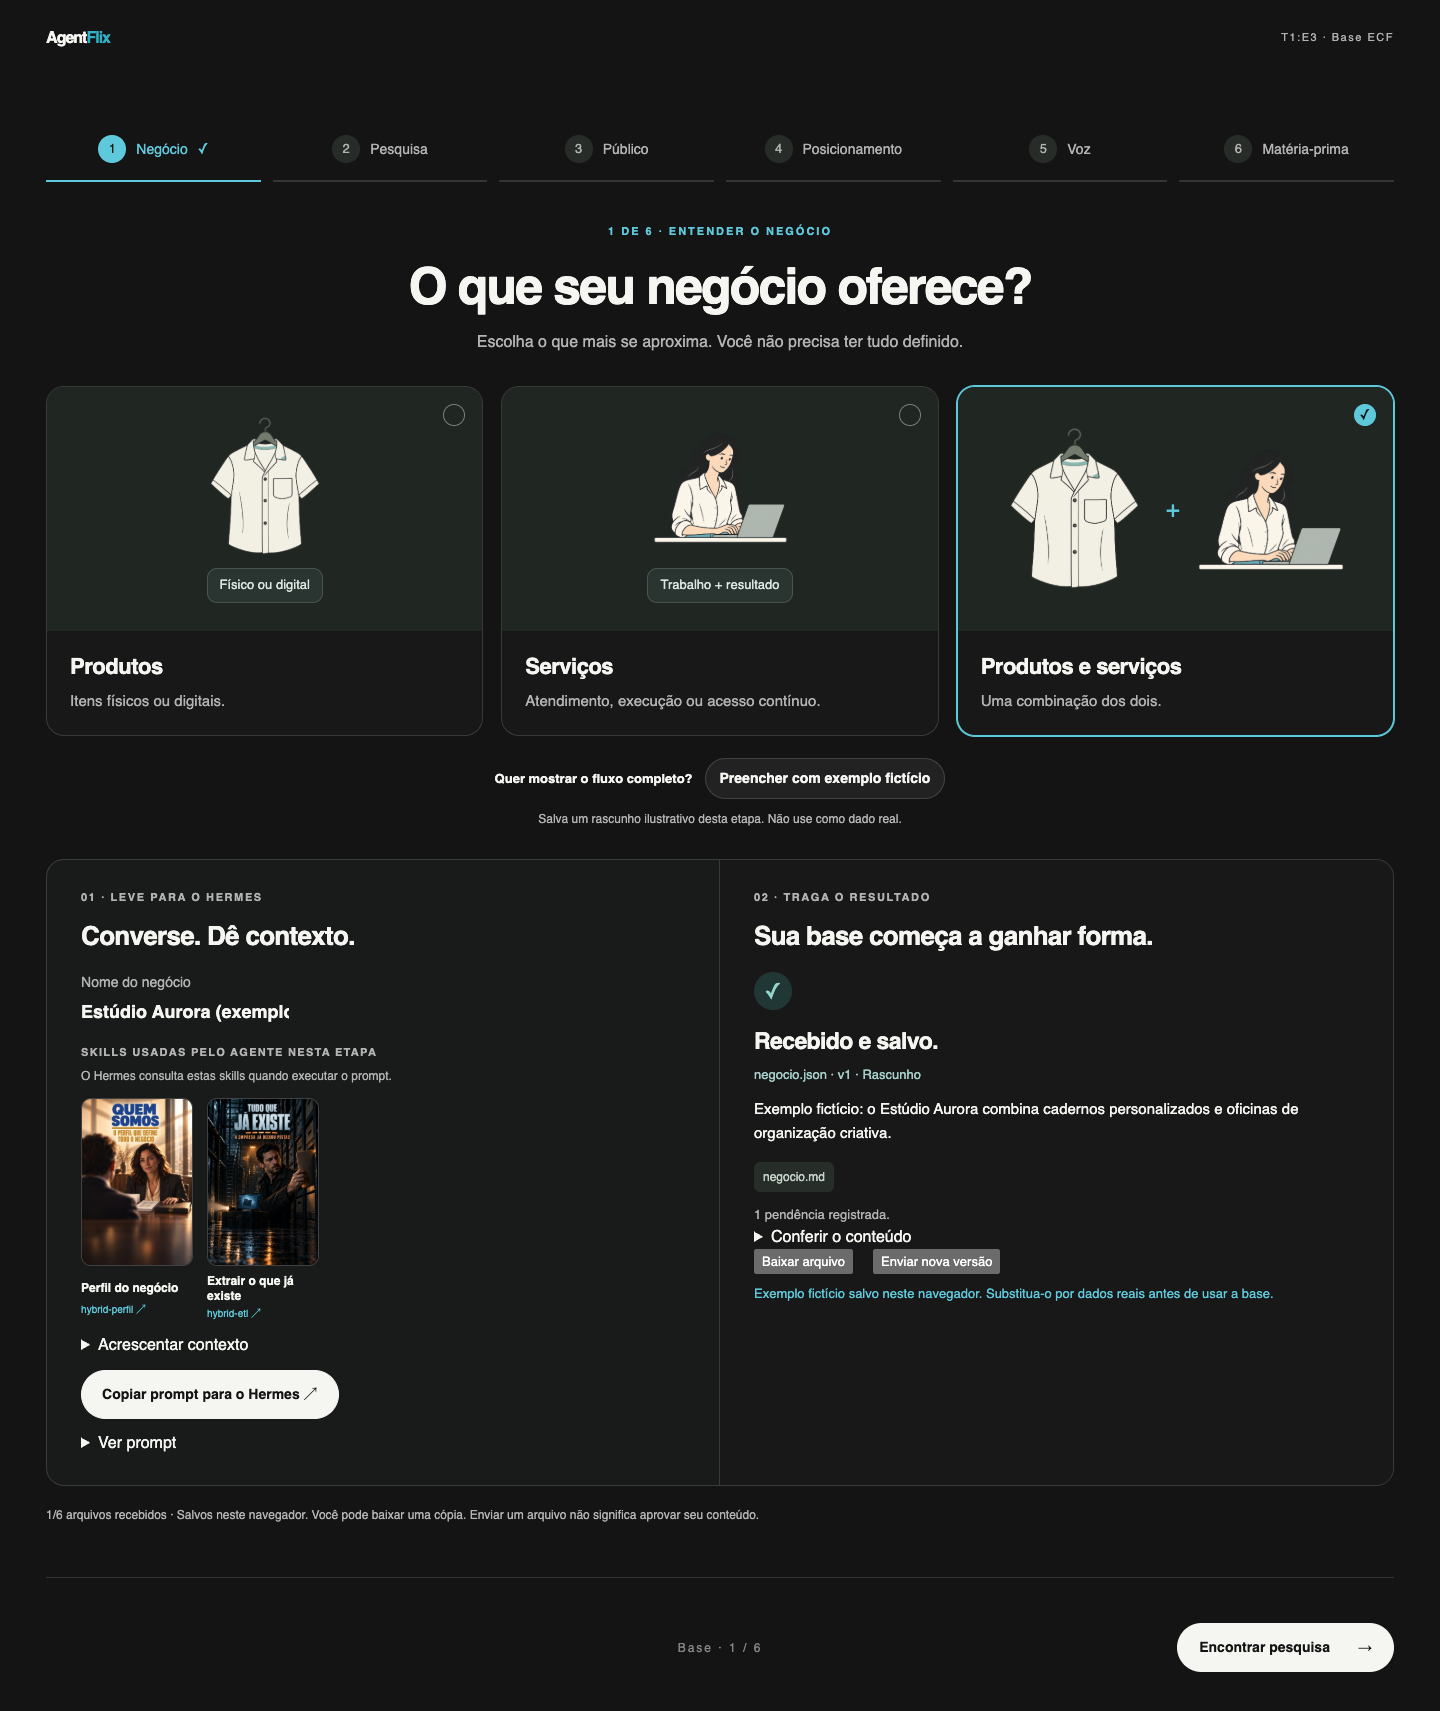
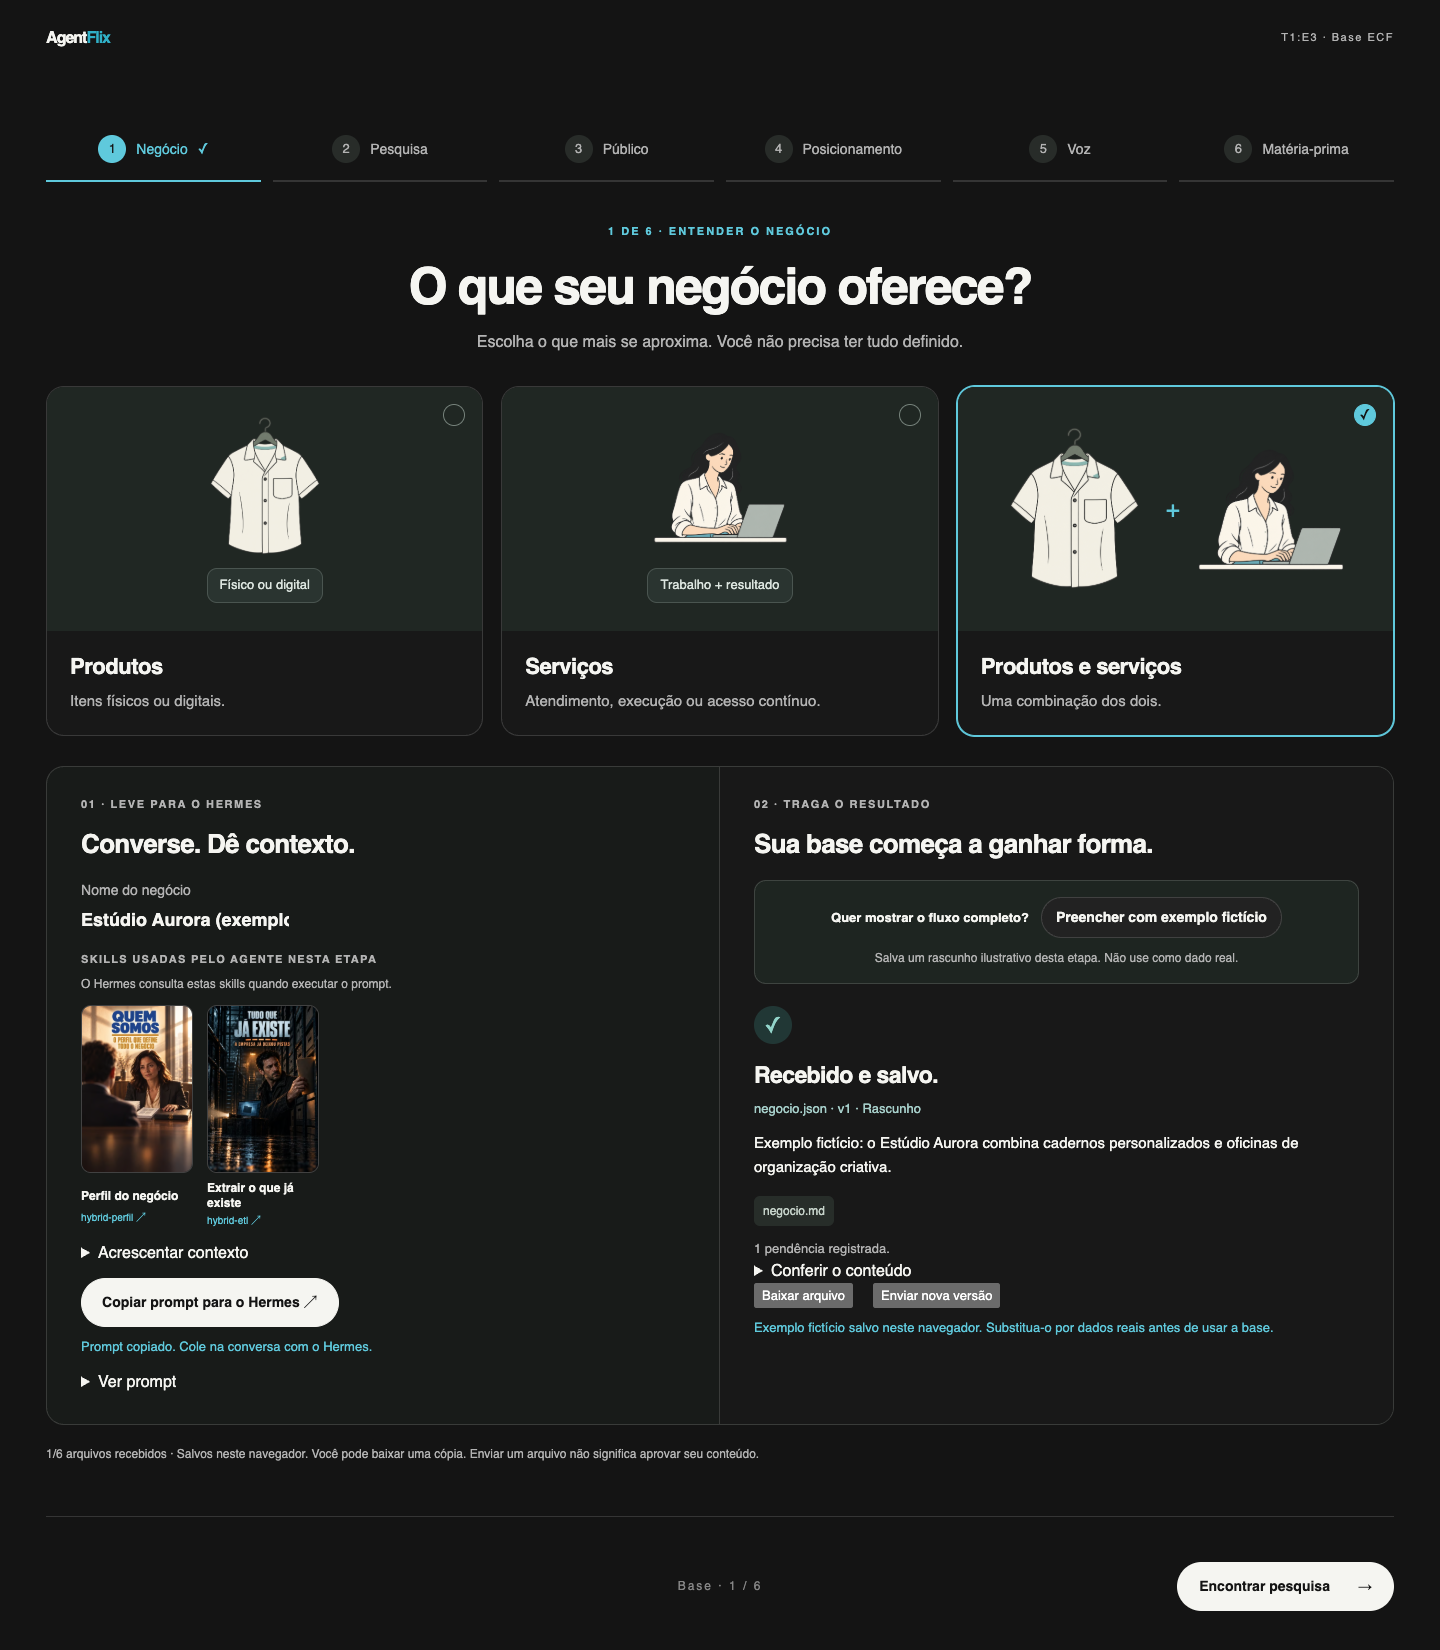
Torna o exemplo fictício acessível no onboarding

diff --git a/site/assistir/hermes-em-operacao/t1e3/base-editorial-flow.js b/site/assistir/hermes-em-operacao/t1e3/base-editorial-flow.js
@@ -67,14 +67,14 @@
     section.setAttribute('aria-labelledby','base-title-'+index);
     section.innerHTML = '<nav class="base-nav" style="--base-stages:'+stages.length+'" aria-label="Etapas da base">'+stages.map((item,i)=>'<a href="#etapa-'+(i+1)+'" data-base-nav="'+item.id+'" '+(index===i?'aria-current="step"':'')+'><span class="base-nav-number">'+(i+1)+'</span><span>'+item.short+'</span><span class="base-nav-check" aria-label="Arquivo recebido" hidden>✓</span></a>').join('')+'</nav>'
       +'<div class="base-decision"><div class="base-heading"><div><p class="eyebrow">'+stage.n+' DE '+stages.length+' · '+stage.title+'</p><h1 id="base-title-'+index+'" tabindex="-1">'+stage.question+'</h1><p>'+stage.guidance+'</p></div></div>'
-      +'<div class="base-choices" role="group" aria-label="'+esc(stage.question)+'">'+stage.options.map((option,i)=>'<button type="button" class="base-choice" data-choice="'+i+'" aria-pressed="false"><span class="base-selection" aria-hidden="true"></span><span class="base-option-art" aria-hidden="true">'+visual(index,i)+'</span><span class="base-option-copy"><strong>'+esc(option.title)+'</strong><span>'+esc(option.description)+'</span></span></button>').join('')+'</div><div class="base-fictional-action"><p>Quer mostrar o fluxo completo?</p><button type="button" class="secondary base-fictional">Preencher com exemplo fictício</button><small>Salva um rascunho ilustrativo desta etapa. Não use como dado real.</small></div></div>'
+      +'<div class="base-choices" role="group" aria-label="'+esc(stage.question)+'">'+stage.options.map((option,i)=>'<button type="button" class="base-choice" data-choice="'+i+'" aria-pressed="false"><span class="base-selection" aria-hidden="true"></span><span class="base-option-art" aria-hidden="true">'+visual(index,i)+'</span><span class="base-option-copy"><strong>'+esc(option.title)+'</strong><span>'+esc(option.description)+'</span></span></button>').join('')+'</div></div>'
       +'<div class="base-workspace"><section class="base-prompt-side" aria-labelledby="base-prompt-title-'+index+'"><p class="base-step-label">01 · LEVE PARA O HERMES</p><h2 id="base-prompt-title-'+index+'">Converse. Dê contexto.</h2>'
       +(index===0?'<label for="base-name">Nome do negócio</label><input id="base-name" maxlength="120" placeholder="Como seu negócio se chama?" autocomplete="organization">':'<p class="base-business-name"></p>')
       +skillCards(stage.skills)
       +'<details class="base-context"><summary>Acrescentar contexto</summary><label class="sr-only" for="base-extra-'+index+'">Contexto adicional para '+stage.short+'</label><textarea id="base-extra-'+index+'" rows="3" maxlength="4000" placeholder="Um detalhe que o Hermes precisa saber…"></textarea></details>'
       +'<button type="button" class="primary base-copy">Copiar prompt para o Hermes <span aria-hidden="true">↗</span></button>'
       +'<p class="base-copy-feedback" role="status"></p><details class="base-prompt-preview"><summary>Ver prompt</summary><textarea aria-label="Prompt de '+stage.short+'" readonly rows="10"></textarea><button type="button" class="text-button base-prompt-download">Baixar prompt .md</button></details></section>'
-      +'<section class="base-upload-side" aria-labelledby="base-upload-title-'+index+'"><p class="base-step-label">02 · TRAGA O RESULTADO</p><h2 id="base-upload-title-'+index+'">Sua base começa a ganhar forma.</h2><div class="base-upload-empty"><div class="base-file-graphic" aria-hidden="true">'+art('pasta')+'</div><label class="base-file-button" for="base-file-'+index+'">Abrir '+stage.id+'.json <span aria-hidden="true">↑</span></label><input class="base-file-input" id="base-file-'+index+'" type="file" accept=".json,application/json"><p>O arquivo que o Hermes entregou.</p></div>'
+      +'<section class="base-upload-side" aria-labelledby="base-upload-title-'+index+'"><p class="base-step-label">02 · TRAGA O RESULTADO</p><h2 id="base-upload-title-'+index+'">Sua base começa a ganhar forma.</h2><div class="base-fictional-action base-fictional-upload"><p>Quer mostrar o fluxo completo?</p><button type="button" class="secondary base-fictional">Preencher com exemplo fictício</button><small>Salva um rascunho ilustrativo desta etapa. Não use como dado real.</small></div><div class="base-upload-empty"><div class="base-file-graphic" aria-hidden="true">'+art('pasta')+'</div><label class="base-file-button" for="base-file-'+index+'">Abrir '+stage.id+'.json <span aria-hidden="true">↑</span></label><input class="base-file-input" id="base-file-'+index+'" type="file" accept=".json,application/json"><p>O arquivo que o Hermes entregou.</p></div>'
       +'<div class="base-receipt" hidden></div><p class="base-file-feedback" role="status"></p><div class="base-repair" hidden><p class="base-step-label">ARQUIVO PRECISA DE CORREÇÃO</p><h3>Peça ao Hermes para ajustar.</h3><p>A correção preserva o conteúdo e aplica o contrato desta etapa.</p><button type="button" class="secondary base-repair-copy">Copiar pedido de correção <span aria-hidden="true">↗</span></button><p class="base-repair-feedback" role="status"></p><details><summary>Conferir o pedido</summary><textarea readonly rows="10" aria-label="Pedido de correção"></textarea><button type="button" class="text-button base-repair-download">Baixar pedido .md</button></details></div></section></div>'
       +'<p class="base-storage-note" role="status">Abrindo sua base…</p>';
     section.querySelectorAll('[data-choice]').forEach(button=>button.addEventListener('click',()=>selectOption(index,Number(button.dataset.choice))));

diff --git a/site/assistir/hermes-em-operacao/t1e3/base-editorial-page.js b/site/assistir/hermes-em-operacao/t1e3/base-editorial-page.js
@@ -111,8 +111,8 @@
       guideOutcome.textContent='Quando ele entregar '+stage.id+'.json, salve o arquivo e volte para esta tela.';guideButton.textContent='Estou com o arquivo';
     }else if(mode==='upload'){
       guide.classList.add('base-tour-detail','base-tour-detail-upload');guideKicker.textContent='02 · TRAGA O RESULTADO';guideTitle.textContent='Traga o arquivo de volta para a sua base.';
-      guideDescription.textContent='Clique no botão destacado “Abrir '+stage.id+'.json” e selecione o arquivo que o Hermes entregou.';
-      guideOutcome.textContent='A tela confere o formato e guarda o resultado neste navegador. Resultado esperado: '+stage.result.charAt(0).toLowerCase()+stage.result.slice(1);guideTarget=scenes[index].querySelector('.base-upload-side');guideActionTarget=scenes[index].querySelector('.base-upload-empty:not([hidden]) .base-file-button, .base-receipt:not([hidden]) .base-replace');guideButton.hidden=true;
+      guideDescription.textContent='Para demonstrar o fluxo, clique no botão destacado “Preencher com exemplo fictício”. Para usar o resultado real, clique em “Abrir '+stage.id+'.json”.';
+      guideOutcome.textContent='A tela confere o formato e guarda o resultado neste navegador. Resultado esperado: '+stage.result.charAt(0).toLowerCase()+stage.result.slice(1);guideTarget=scenes[index].querySelector('.base-upload-side');guideActionTarget=scenes[index].querySelector('.base-fictional:not([disabled]), .base-upload-empty:not([hidden]) .base-file-button, .base-receipt:not([hidden]) .base-replace');guideButton.hidden=true;
     }else if(mode==='importing'){
       guide.classList.add('base-tour-intro');guideKicker.textContent='CONFERINDO O ARQUIVO';guideTitle.textContent='Só um instante.';guideDescription.textContent='A tela está validando o arquivo que voltou do Hermes.';guideOutcome.textContent='Se o formato estiver correto, esta etapa será salva no navegador automaticamente.';guideButton.hidden=true;
     }

diff --git a/site/assistir/hermes-em-operacao/t1e3/base-editorial.html b/site/assistir/hermes-em-operacao/t1e3/base-editorial.html
@@ -5,16 +5,16 @@
   <meta name="viewport" content="width=device-width,initial-scale=1">
   <title>Base editorial · T1:E3 · AgentFlix</title>
   <link rel="stylesheet" href="episode.css">
-  <link rel="stylesheet" href="base-editorial.css?v=20260916-1">
+  <link rel="stylesheet" href="base-editorial.css?v=20260916-2">
   <link rel="stylesheet" href="base-editorial-dashboard.css?v=20260914-3">
   <script src="base-editorial-data.js" defer></script>
   <script src="base-editorial-contract.js?v=20260916-1" defer></script>
   <script src="base-editorial-ecf-scores.js?v=20260914-2" defer></script>
   <script src="base-editorial-bundle.js?v=20260914-2" defer></script>
-  <script src="base-editorial-flow.js?v=20260916-1" defer></script>
+  <script src="base-editorial-flow.js?v=20260916-2" defer></script>
   <script src="chapter-handoff.js?v=20260916-1" defer></script>
   <script src="base-editorial-dashboard.js?v=20260914-3" defer></script>
-  <script src="base-editorial-page.js?v=20260916-1" defer></script>
+  <script src="base-editorial-page.js?v=20260916-2" defer></script>
 </head>
 <body class="brand-journey base-editorial">
   <div class="base-editorial-shell">

diff --git a/site/assistir/hermes-em-operacao/t1e3/base-editorial.css b/site/assistir/hermes-em-operacao/t1e3/base-editorial.css
@@ -28,6 +28,7 @@
 .base-fictional-action p{margin:0;font-weight:600;color:var(--text)}
 .base-fictional-action small{width:100%;font-size:12px;line-height:1.45}
 .base-fictional-action .base-fictional{min-height:40px;padding:9px 14px}
+.base-fictional-upload{margin:0 0 22px;padding:16px;border:1px solid var(--line);border-radius:12px;background:#1e2521}
 .base-option-art{display:flex;align-items:center;justify-content:center;background:#202723;height:244px;flex:0 0 244px;padding:25px;width:100%}
 .base-option-copy{display:flex;flex-direction:column;gap:10px;padding:23px;flex:1}
 .base-option-copy strong{font-size:22px;line-height:1.2;letter-spacing:-.5px;font-weight:600}

diff --git a/tests/test_t1e3.py b/tests/test_t1e3.py
@@ -40,6 +40,10 @@ class HermesOperationT1E3(unittest.TestCase):
         base = (CHAPTER / "base-editorial.html").read_text(encoding="utf-8")
         self.assertIn("chapter-handoff.js", base)
         self.assertIn("base-editorial-dashboard.js", base)
+        flow = (CHAPTER / "base-editorial-flow.js").read_text(encoding="utf-8")
+        self.assertRegex(flow, r'base-upload-side[\s\S]*base-fictional-action[\s\S]*Preencher com exemplo fictício')
+        page = (CHAPTER / "base-editorial-page.js").read_text(encoding="utf-8")
+        self.assertIn(".base-fictional:not([disabled])", page)
 
     def test_method_navigation_separates_journey_from_local_chapters(self):
         entry = (CHAPTER / "index.html").read_text(encoding="utf-8")

diff --git a/reviews/base-dashboard.md b/reviews/base-dashboard.md
@@ -189,9 +189,10 @@ zero erros de página em 1440, 768 e 390 px. As capturas estão em
 ## Demonstração fictícia da Base ECF
 
 Cada uma das seis etapas da Base ECF tem o botão “Preencher com exemplo
-fictício”. Ele seleciona uma figura coerente com a etapa, cria ou reutiliza a
-base local e salva um rascunho validado pelo mesmo contrato usado no retorno do
-Hermes. Os exemplos usam o Estúdio Aurora somente como cenário ilustrativo:
+fictício” dentro de “02 · Traga o resultado”, onde permanece disponível durante
+o onboarding. Ele seleciona uma figura coerente com a etapa, cria ou reutiliza
+a base local e salva um rascunho validado pelo mesmo contrato usado no retorno
+do Hermes. Os exemplos usam o Estúdio Aurora somente como cenário ilustrativo:
 cada arquivo e cada resumo informa que não há fonte externa, pesquisa, cliente
 ou dado real envolvido. Depois do sexto clique, a pessoa chega ao dashboard com
 seis pastas demonstrativas e pode percorrer todo o fluxo.
